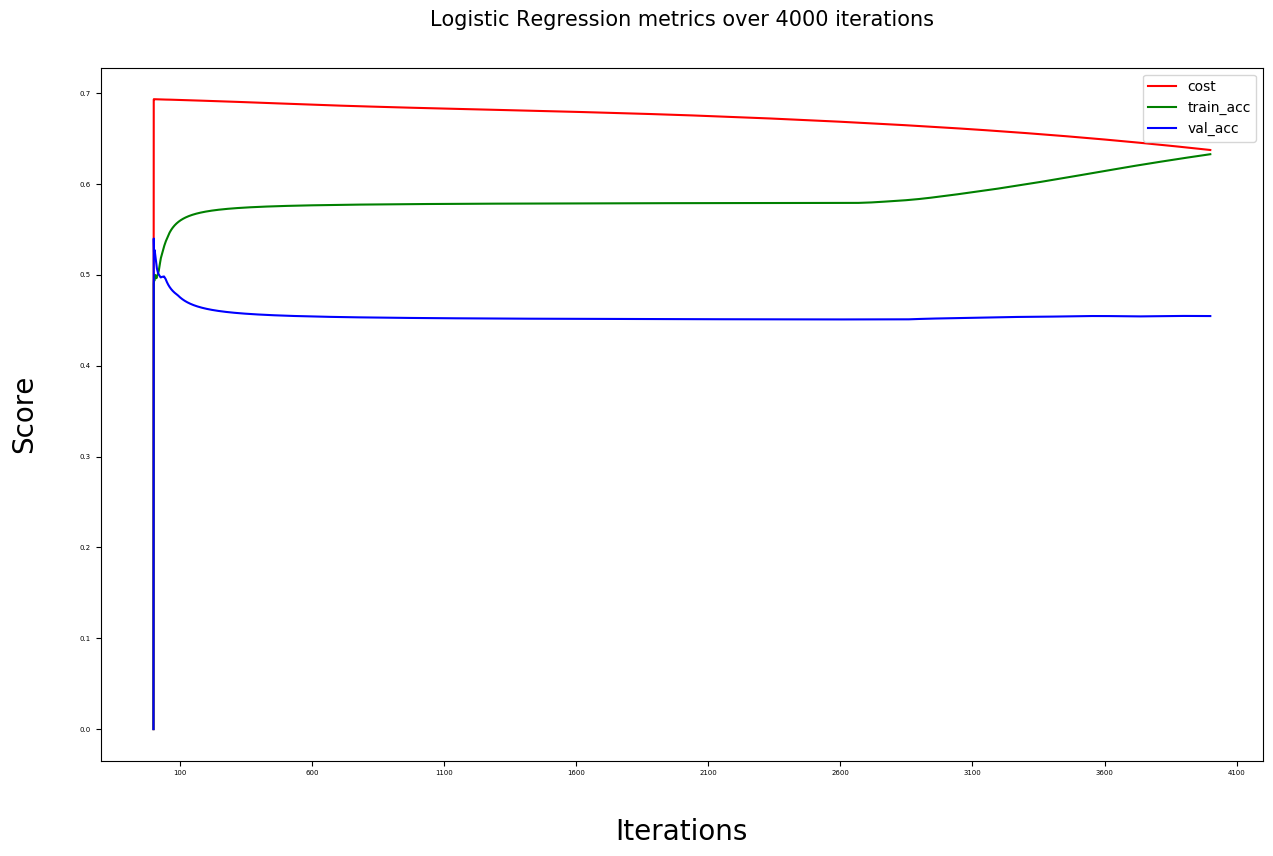
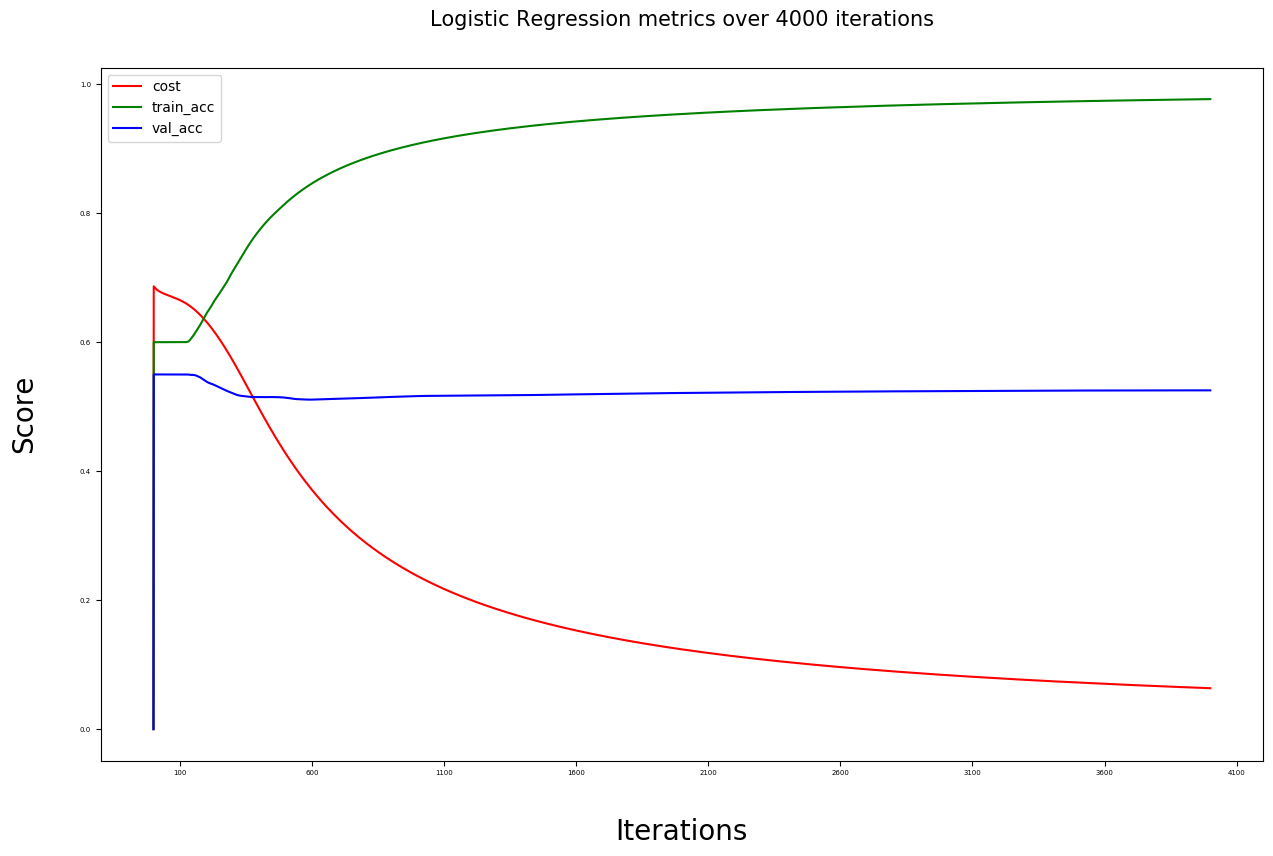
Exploring performance improvements

diff --git a/src/utils/utils.c b/src/utils/utils.c
@@ -1,5 +1,5 @@
 #include "./utils.h"
-
+#include <math.h>
 double cache;
 int return_cache;
 
@@ -71,7 +71,7 @@ dARRAY * transpose(dARRAY * restrict Matrix){
   dARRAY * matrix = (dARRAY*)malloc(sizeof(dARRAY));
   matrix->matrix = (double*)calloc(Matrix->shape[0]*Matrix->shape[1],sizeof(double));
   omp_set_num_threads(8);
-  #pragma omp parallel for shared(Matrix,matrix)
+  #pragma omp parallel for num_threads(8) collapse(1) shared(Matrix,matrix) schedule(static)
   for(int i=0;i<Matrix->shape[0];i++)
     for(int j=0;j<Matrix->shape[1];j++)
       matrix->matrix[j*Matrix->shape[0]+i] = Matrix->matrix[i*Matrix->shape[1]+j];
@@ -87,7 +87,7 @@ dARRAY * transpose(dARRAY * restrict Matrix){
  * @result Returns a pointer to the result of dot(MatrixA,MatrixB) 
  * @return A pointer to the result of dot(MatrixA,MatrixB) 
 */
-dARRAY * dot(dARRAY * restrict MatrixA, dARRAY * restrict MatrixB){
+dARRAY * dot(dARRAY * MatrixA, dARRAY * MatrixB){
   if(MatrixA->shape[1]!=MatrixB->shape[0]){
     printf("\033[1;31mError:\033[93m Shape error while performing dot(). Matrix dimensions do not align. %d(dim1) != %d(dim0)\033[0m\n",MatrixA->shape[1],MatrixB->shape[0]);
     return NULL;
@@ -102,7 +102,7 @@ dARRAY * dot(dARRAY * restrict MatrixA, dARRAY * restrict MatrixB){
   result->matrix = (double*)calloc(MatrixA->shape[0]*MatrixB->shape[1],sizeof(double));
   BT = transpose(MatrixB);
   omp_set_num_threads(8);
-  #pragma omp parallel for collapse(1) shared(MatrixA,MatrixB)
+  #pragma omp parallel for num_threads(8) collapse(1) schedule(static)
   for(int i=0;i<MatrixA->shape[0];i++){
     for(int j=0;j<MatrixB->shape[1];j++){
       for(int k=0;k<MatrixB->shape[0];k++){
@@ -110,6 +110,7 @@ dARRAY * dot(dARRAY * restrict MatrixA, dARRAY * restrict MatrixB){
       }
     }
   }
+  
   free2d(BT);
   BT = NULL;
   result->shape[0] = MatrixA->shape[0];
@@ -149,15 +150,15 @@ dARRAY * multiply(dARRAY * restrict MatrixA, dARRAY * restrict MatrixB){
   dARRAY * result = (dARRAY*)malloc(sizeof(dARRAY));
   result->matrix = (double*)calloc(MatrixA->shape[0]*MatrixA->shape[1],sizeof(double));
   if(x==y){
-    omp_set_num_threads(4);
-    #pragma omp parallel for 
+    omp_set_num_threads(8);
+    #pragma omp parallel for num_threads(8) shared(MatrixA,MatrixB,result) schedule(static)
     for(int i=0;i<MatrixA->shape[0]*MatrixA->shape[1];i++){
       result->matrix[i] = MatrixA->matrix[i] * MatrixB->matrix[i];
     }
   }
   else{
-    omp_set_num_threads(4);
-    #pragma omp parallel for 
+    omp_set_num_threads(8);
+    #pragma omp parallel for num_threads(8) shared(MatrixA,MatrixB,temp,result) schedule(static)
     for(int i=0;i<MatrixA->shape[0]*MatrixA->shape[1];i++)
         result->matrix[i] = x>y ? MatrixA->matrix[i] * temp->matrix[i] : temp->matrix[i] * MatrixB->matrix[i];
   }
@@ -201,15 +202,15 @@ dARRAY * divison(dARRAY * restrict MatrixA, dARRAY * restrict MatrixB){
   dARRAY * result = (dARRAY*)malloc(sizeof(dARRAY));
   result->matrix = (double*)calloc(MatrixA->shape[0]*MatrixA->shape[1],sizeof(double));
   if(x==y){
-    omp_set_num_threads(4);
-    #pragma omp parallel for 
+    omp_set_num_threads(8);
+    #pragma omp parallel for num_threads(8) shared(MatrixA,MatrixB,result) schedule(static)
     for(int i=0;i<MatrixA->shape[0]*MatrixA->shape[1];i++){
       result->matrix[i] = MatrixA->matrix[i] / MatrixB->matrix[i];
     }
   }
   else{
-    omp_set_num_threads(4);
-    #pragma omp parallel for 
+    omp_set_num_threads(8);
+    #pragma omp parallel for num_threads(8) shared(MatrixA,MatrixB,temp,result) schedule(static)
     for(int i=0;i<MatrixA->shape[0]*MatrixA->shape[1];i++)
         result->matrix[i] = x>y ? MatrixA->matrix[i] / temp->matrix[i] : temp->matrix[i] / MatrixB->matrix[i];
   }
@@ -253,24 +254,20 @@ dARRAY * add(dARRAY * MatrixA, dARRAY * MatrixB){
   dARRAY * result = (dARRAY*)malloc(sizeof(dARRAY));
   result->matrix = (double*)calloc(MatrixA->shape[0]*MatrixA->shape[1],sizeof(double));
   if(x==y){
-    omp_set_num_threads(4);
-    #pragma omp parallel for 
+    omp_set_num_threads(8);
+    #pragma omp parallel for num_threads(8) shared(MatrixA,MatrixB,result) schedule(static)
     for(int i=0;i<MatrixA->shape[0]*MatrixA->shape[1];i++){
       result->matrix[i] = MatrixA->matrix[i] + MatrixB->matrix[i];
     }
   }
   else{
-    omp_set_num_threads(4);
-    #pragma omp parallel for 
+    omp_set_num_threads(8);
+    #pragma omp parallel for num_threads(8) shared(MatrixA,MatrixB,bcast_arr,result) schedule(static)
     for(int i=0;i<MatrixA->shape[0]*MatrixA->shape[1];i++)
         result->matrix[i] = x>y ? MatrixA->matrix[i] + bcast_arr->matrix[i] : bcast_arr->matrix[i] + MatrixB->matrix[i];
   }
-  
-  // printf("freeing temp\n");
   if(bcast_arr!=NULL)
   free2d(bcast_arr);
-  // bcast_arr = NULL;
-  // printf("freed temp\n");
   result->shape[0] = MatrixA->shape[0];
   result->shape[1] = MatrixA->shape[1];
   return result;
@@ -308,15 +305,15 @@ dARRAY * subtract(dARRAY * MatrixA, dARRAY * MatrixB){
   dARRAY * result = (dARRAY*)malloc(sizeof(dARRAY));
   result->matrix = (double*)calloc(MatrixA->shape[0]*MatrixA->shape[1],sizeof(double));
   if(x==y){
-    omp_set_num_threads(4);
-    #pragma omp parallel for 
+    omp_set_num_threads(8);
+    #pragma omp parallel for num_threads(8) shared(MatrixA,MatrixB,result) schedule(static)
     for(int i=0;i<MatrixA->shape[0]*MatrixA->shape[1];i++){
       result->matrix[i] = MatrixA->matrix[i] - MatrixB->matrix[i];
     }
   }
   else{
-    omp_set_num_threads(4);
-    #pragma omp parallel for 
+    omp_set_num_threads(8);
+    #pragma omp parallel for num_threads(8) shared(MatrixA,MatrixB,bcast_arr,result) schedule(static)
     for(int i=0;i<MatrixA->shape[0]*MatrixA->shape[1];i++)
         result->matrix[i] = x>y ? MatrixA->matrix[i] - bcast_arr->matrix[i] : bcast_arr->matrix[i] - MatrixB->matrix[i];
   }
@@ -342,8 +339,8 @@ dARRAY * addScalar(dARRAY * matrix, double scalar){
   }
   dARRAY * result = (dARRAY*)malloc(sizeof(dARRAY));
   result->matrix = (double*)calloc(matrix->shape[0]*matrix->shape[1],sizeof(double));
-  omp_set_num_threads(4);
-  #pragma omp parallel for 
+  omp_set_num_threads(8);
+  #pragma omp parallel for num_threads(8) shared(matrix,result,scalar) schedule(static)
   for(int i=0; i<matrix->shape[0]*matrix->shape[1];  i++){
     result->matrix[i] = matrix->matrix[i] + scalar;
   }
@@ -366,8 +363,8 @@ dARRAY * subScalar(dARRAY * matrix, double scalar){
   }
   dARRAY * result = (dARRAY*)malloc(sizeof(dARRAY));
   result->matrix = (double*)calloc(matrix->shape[0]*matrix->shape[1],sizeof(double));
-  omp_set_num_threads(4);
-  #pragma omp parallel for 
+  omp_set_num_threads(8);
+  #pragma omp parallel for num_threads(8) shared(matrix,result,scalar) schedule(static)
   for(int i=0; i<matrix->shape[0]*matrix->shape[1];  i++){
     result->matrix[i] = matrix->matrix[i] - scalar;
   }
@@ -390,8 +387,8 @@ dARRAY * mulScalar(dARRAY * matrix, double scalar){
   }
   dARRAY * result = (dARRAY*)malloc(sizeof(dARRAY));
   result->matrix = (double*)calloc(matrix->shape[0]*matrix->shape[1],sizeof(double));
-  omp_set_num_threads(4);
-  #pragma omp parallel for 
+  omp_set_num_threads(8);
+  #pragma omp parallel for num_threads(8) shared(matrix,result,scalar) schedule(static)
   for(int i=0; i<matrix->shape[0]*matrix->shape[1];  i++){
     result->matrix[i] = matrix->matrix[i] * scalar;
   }
@@ -414,8 +411,8 @@ dARRAY * divScalar(dARRAY * matrix, double scalar){
   }
   dARRAY * result = (dARRAY*)malloc(sizeof(dARRAY));
   result->matrix = (double*)calloc(matrix->shape[0]*matrix->shape[1],sizeof(double));
-  omp_set_num_threads(4);
-  #pragma omp parallel for 
+  omp_set_num_threads(8);
+  #pragma omp parallel for num_threads(8) shared(matrix,result,scalar) schedule(static)
   for(int i=0; i<matrix->shape[0]*matrix->shape[1];  i++){
     result->matrix[i] = matrix->matrix[i] / scalar;
   }
@@ -438,8 +435,8 @@ dARRAY * power(dARRAY * matrix, int power){
   }
   dARRAY * result = (dARRAY*)malloc(sizeof(dARRAY));
   result->matrix = (double*)calloc(matrix->shape[0]*matrix->shape[1],sizeof(double));
-  omp_set_num_threads(4);
-  #pragma omp parallel for 
+  omp_set_num_threads(8);
+  #pragma omp parallel for num_threads(8) shared(matrix,result,power) schedule(static)
   for(int i=0; i<matrix->shape[0]*matrix->shape[1];  i++){
     result->matrix[i] = pow(matrix->matrix[i],power);
   }
@@ -466,8 +463,8 @@ dARRAY * b_cast(dARRAY * MatrixA, dARRAY * MatrixB){
     //M(5,4) B(1,4)  repeat 5 * 4 = 20 times
     b_castArr = (dARRAY*)malloc(sizeof(dARRAY));
     b_castArr->matrix = (double*)calloc(MatrixA->shape[0]*MatrixA->shape[1],sizeof(double));
-    omp_set_num_threads(4);
-    #pragma omp parallel for shared(MatrixA,MatrixB)
+    omp_set_num_threads(8);
+    #pragma omp parallel for num_threads(8) shared(MatrixA,MatrixB,b_castArr) schedule(static)
     for(int i=0;i<MatrixA->shape[0]*MatrixB->shape[1];i++){
       b_castArr->matrix[i] = MatrixB->matrix[(i%MatrixB->shape[1])];
     }
@@ -481,8 +478,8 @@ dARRAY * b_cast(dARRAY * MatrixA, dARRAY * MatrixB){
     b_castArr = (dARRAY*)malloc(sizeof(dARRAY));
     b_castArr->matrix = (double*)calloc(MatrixA->shape[0]*MatrixA->shape[1],sizeof(double));
     int k=0;
-    omp_set_num_threads(4);
-    #pragma omp parallel for shared(MatrixA,MatrixB,k)
+    omp_set_num_threads(8);
+    #pragma omp parallel for num_threads(8) shared(MatrixA,MatrixB,b_castArr,k) schedule(static)
     for(int i=0;i<MatrixA->shape[0];i++){
       //copy b n times
       for(int j=0;j<MatrixA->shape[1];j++){
@@ -515,7 +512,7 @@ dARRAY * sum(dARRAY * matrix, int axis){
   if(axis==0){
     new->matrix = (double*)calloc(matrix->shape[1],sizeof(double));
     omp_set_num_threads(8);
-    #pragma omp parallel for collapse(1)
+    #pragma omp parallel for num_threads(8) collapse(1) shared(matrix,new) schedule(static)
     for(int i = 0; i<matrix->shape[0];i++){
       double temp = 0.0;
       for(int j=0;j<matrix->shape[1];j++){
@@ -529,7 +526,7 @@ dARRAY * sum(dARRAY * matrix, int axis){
   else if(axis==1){
     new->matrix = (double*)calloc(matrix->shape[0],sizeof(double));
     omp_set_num_threads(8);
-    #pragma omp parallel for collapse(1)
+    #pragma omp parallel for num_threads(8) collapse(1) shared(matrix,new) schedule(static)
     for(int i=0;i<matrix->shape[0];i++){
       double temp = 0.0;
       for(int j=0;j<matrix->shape[1];j++){
@@ -545,8 +542,8 @@ dARRAY * sum(dARRAY * matrix, int axis){
 
 double frobenius_norm(dARRAY * matrix){
   double frobenius_norm = 0.0;
-  omp_set_num_threads(4);
-  #pragma omp parallel for
+  omp_set_num_threads(8);
+  #pragma omp parallel for num_threads(8) shared(matrix) schedule(static)
   for(int i=0;i<matrix->shape[0]*matrix->shape[1];i++){
     frobenius_norm += pow(matrix->matrix[i],2);
   }
@@ -555,8 +552,8 @@ double frobenius_norm(dARRAY * matrix){
 
 double Manhattan_distance(dARRAY * matrix){
   double dist = 0.0;
-  omp_set_num_threads(4);
-  #pragma omp parallel for
+  omp_set_num_threads(8);
+  #pragma omp parallel for num_threads(8) shared(matrix) schedule(static)
   for(int i=0;i<matrix->shape[0]*matrix->shape[1];i++){
     dist += abs(matrix->matrix[i]);
   }

diff --git a/src/utils/Activations/relu/relu.c b/src/utils/Activations/relu/relu.c
@@ -7,8 +7,8 @@ dARRAY * forward_pass_relu(){
   dARRAY * relu_outf = NULL;
   relu_outf = (dARRAY*)malloc(sizeof(dARRAY));
   relu_outf->matrix = (double*)calloc(m->current_layer->DENSE->cache->shape[0]*m->current_layer->DENSE->cache->shape[1],sizeof(double));
-  omp_set_num_threads(4);
-  #pragma omp parallel for
+  omp_set_num_threads(8);
+  #pragma omp parallel for num_threads(8) shared(m,relu_outf) schedule(static)
   for(int i=0;i<m->current_layer->DENSE->cache->shape[0]*m->current_layer->DENSE->cache->shape[1];i++)
     relu_outf->matrix[i] = m->current_layer->DENSE->cache->matrix[i]>(double)0.0 ?(double)m->current_layer->DENSE->cache->matrix[i] : (double)0.0;
   relu_outf->shape[0] = m->current_layer->DENSE->cache->shape[0];
@@ -27,8 +27,8 @@ dARRAY * backward_pass_relu(){
   dARRAY * relu_outb = NULL;
   relu_outb = (dARRAY*)malloc(sizeof(dARRAY));
   relu_outb->matrix = (double*)calloc(m->current_layer->DENSE->A->shape[0]*m->current_layer->DENSE->A->shape[1],sizeof(double));
-  omp_set_num_threads(4);
-  #pragma omp parallel for
+  omp_set_num_threads(8);
+  #pragma omp parallel for num_threads(8) shared(m,relu_outb) schedule(static)
   for(int i=0;i<m->current_layer->DENSE->A->shape[0]*m->current_layer->DENSE->A->shape[1];i++)
     relu_outb->matrix[i] = m->current_layer->DENSE->A->matrix[i]>(double)0.0 ? (double)1.0 : (double)0.0;
   relu_outb->shape[0] = m->current_layer->DENSE->A->shape[0];

diff --git a/src/utils/Activations/tanh/tanh.c b/src/utils/Activations/tanh/tanh.c
@@ -6,8 +6,8 @@ extern __Model__ * m;
 dARRAY * forward_pass_tanh(){
   dARRAY * tanh_out = (dARRAY*)malloc(sizeof(dARRAY));
   tanh_out->matrix = (double*)calloc(m->current_layer->DENSE->cache->shape[0]*m->current_layer->DENSE->cache->shape[1],sizeof(double));
-  omp_set_num_threads(4);
-  #pragma omp parallel for
+  omp_set_num_threads(8);
+  #pragma omp parallel for num_threads(8) shared(m,tanh_out) schedule(static)
   for(int i=0;i<m->current_layer->DENSE->cache->shape[0]*m->current_layer->DENSE->cache->shape[1];i++){
     //Computing the tanh function
     double exp_res1 = exp(m->current_layer->DENSE->cache->matrix[i]);
@@ -22,8 +22,8 @@ dARRAY * forward_pass_tanh(){
 dARRAY * backward_pass_tanh(){
   dARRAY * tanh_out = (dARRAY*)malloc(sizeof(dARRAY));
   tanh_out->matrix = (double*)calloc(m->current_layer->DENSE->A->shape[0]*m->current_layer->DENSE->A->shape[1],sizeof(double));
-  omp_set_num_threads(4);
-  #pragma omp parallel for
+  omp_set_num_threads(8);
+  #pragma omp parallel for num_threads(8) shared(m,tanh_out) schedule(static)
   for(int i=0;i<m->current_layer->DENSE->A->shape[0]*m->current_layer->DENSE->A->shape[1];i++){
     //Computing the tanh function
     double exp_res1 = exp(m->current_layer->DENSE->A->matrix[i]);

diff --git a/src/test/test_network.c b/src/test/test_network.c
@@ -6,20 +6,20 @@ int main(){
   
   create_model();
   
-  int x_train_dims[] = {12288,100};
+  int x_train_dims[] = {12288,50};
   load_x_train(x_train_dims);
   int x_cv_dims[] = {12288,100};
   load_x_cv(x_cv_dims);
-  int y_train_dims[] = {1,100};
+  int y_train_dims[] = {1,50};
   load_y_train(y_train_dims);
   int y_cv_dims[] = {1,100};
   load_y_cv(y_cv_dims);
 
   Input(.layer_size=12288);
   // Dense(.layer_size=64,.activation="relu",.initializer="he",.layer_type="hidden");
-  Dense(.layer_size=16,.activation="relu",.initializer="he",.layer_type="hidden");
+  Dense(.layer_size=20,.activation="relu",.initializer="he",.layer_type="hidden");
   Dense(.layer_size=1,.activation="sigmoid",.initializer="random",.layer_type="output");
-  Model(.x_train=m->x_train,.Y_train=m->Y_train,.x_cv=m->x_cv,.Y_cv=m->Y_cv,.num_iter=4000,.learning_rate=0.0007,.regularization="L2",.lambda=0.009);
+  Model(.x_train=m->x_train,.Y_train=m->Y_train,.x_cv=m->x_cv,.Y_cv=m->Y_cv,.num_iter=4000,.learning_rate=0.007,.lambda=0.00005,.regularization="L2");
   // printComputation_Graph(m->graph);
   // m->load_model("new_model_no_bugs.t7");
   m->fit();

diff --git a/src/model/model.c b/src/model/model.c
@@ -177,7 +177,7 @@ double calculate_train_val_acc(){
   double val_acc = calculate_accuracy(output,m->Y_cv);
   free2d(output);
   output = NULL;
-  return val_acc;
+  return (1-val_acc);
 }
 
 void append_to_file(double * arr ,char * filename,char * mode){
@@ -202,6 +202,8 @@ void __fit__(){
   double * val_acc_arr = (double*)calloc(m->num_iter,sizeof(double));
   while(i<=m->num_iter){
     __forward__();
+    __backward__();
+    
     sum_cost += m->iter_cost;
     sum_train_acc += calculate_accuracy(m->output,m->Y_train);
     sum_train_val_acc += calculate_train_val_acc();
@@ -217,7 +219,6 @@ void __fit__(){
       printf("\033[96m train_acc : \033[0m%lf ",m->train_accuracy);
       printf("\033[96m val_acc : \033[0m%lf\n",m->cross_val_accuracy);
     }
-    __backward__();
     GD(m->learning_rate);
     i++;
     // if(i==5) break;

diff --git a/src/utils/Activations/sigmoid/sigmoid.c b/src/utils/Activations/sigmoid/sigmoid.c
@@ -7,8 +7,8 @@ dARRAY * forward_pass_sigmoid(){
   dARRAY * sigmoid_outf = NULL;
   sigmoid_outf = (dARRAY*)malloc(sizeof(dARRAY));
   sigmoid_outf->matrix = (double*)calloc(m->current_layer->DENSE->cache->shape[0]*m->current_layer->DENSE->cache->shape[1],sizeof(double));
-  omp_set_num_threads(4);
-  #pragma omp parallel for
+  omp_set_num_threads(8);
+  #pragma omp parallel for num_threads(8) shared(m,sigmoid_outf) schedule(static)
   for(int i=0;i<m->current_layer->DENSE->cache->shape[0]*m->current_layer->DENSE->cache->shape[1];i++)
     sigmoid_outf->matrix[i] = (double)(1.0/(double)(1+exp((double)(-1.0*m->current_layer->DENSE->cache->matrix[i]))));
   sigmoid_outf->shape[0] = m->current_layer->DENSE->cache->shape[0];

diff --git a/src/layers/Dense.c b/src/layers/Dense.c
@@ -90,12 +90,14 @@ void forward_pass_DENSE(){
   dARRAY * Wx = NULL;
   //if the pevious layer is an input layer, we want to dot product the weights with the input
   //features and not the activations
+  // printf("performing dot product\n");
   if(m->current_layer->prev_layer->type==INPUT) 
     Wx = \
     dot(m->current_layer->DENSE->weights, m->current_layer->prev_layer->INPUT->A);
   else 
     Wx = \
     dot(m->current_layer->DENSE->weights, m->current_layer->prev_layer->DENSE->A);
+  // printf("done\n");
   // printf("done with dot\n");
   //Store Z in cache as we will require it in backward pass
   // printf("adding bias\n");

diff --git a/src/optimizers/gradient_descent.c b/src/optimizers/gradient_descent.c
@@ -87,14 +87,9 @@ void GD(double lr){
     }
     else if(temp->type==LOSS){
       if(temp->LOSS->grad_out!=NULL){
-        // printf("freeing grad_out\n");
-        // free2d(temp->LOSS->grad_out);
         temp->LOSS->grad_out = NULL;
-        // printf("done\n");
       }
-      // temp->LOSS->grad_out = NULL;
     }
     temp = temp->next_layer;
   }
-  // printf("done parameter update\n");
 }
